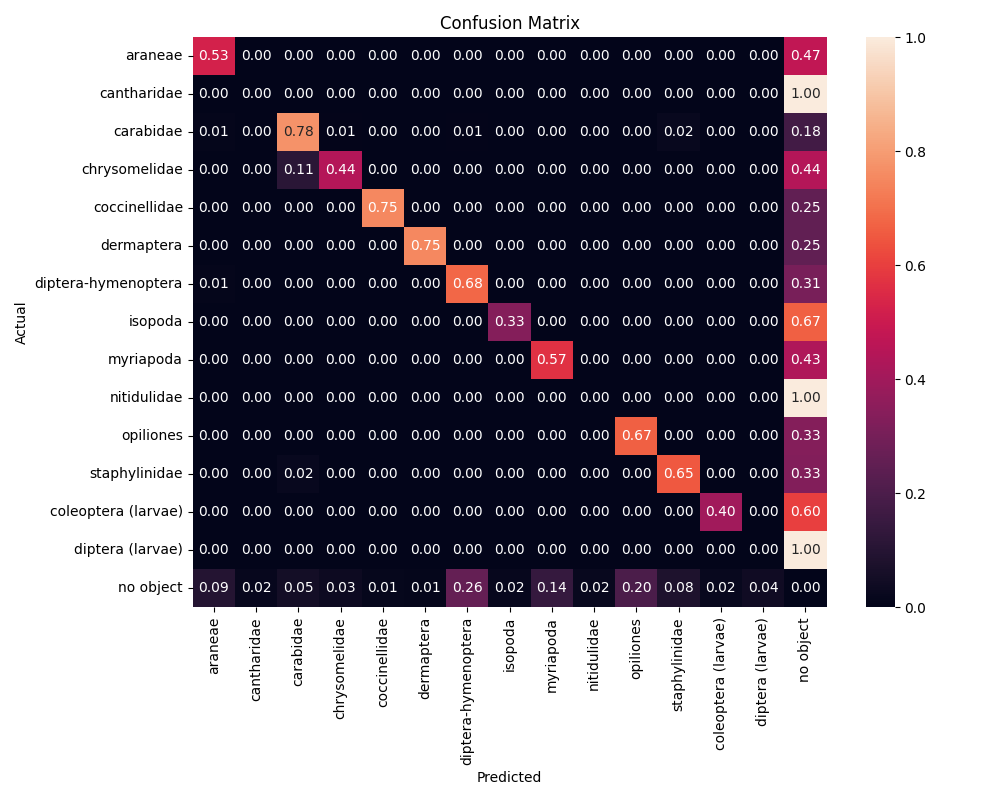
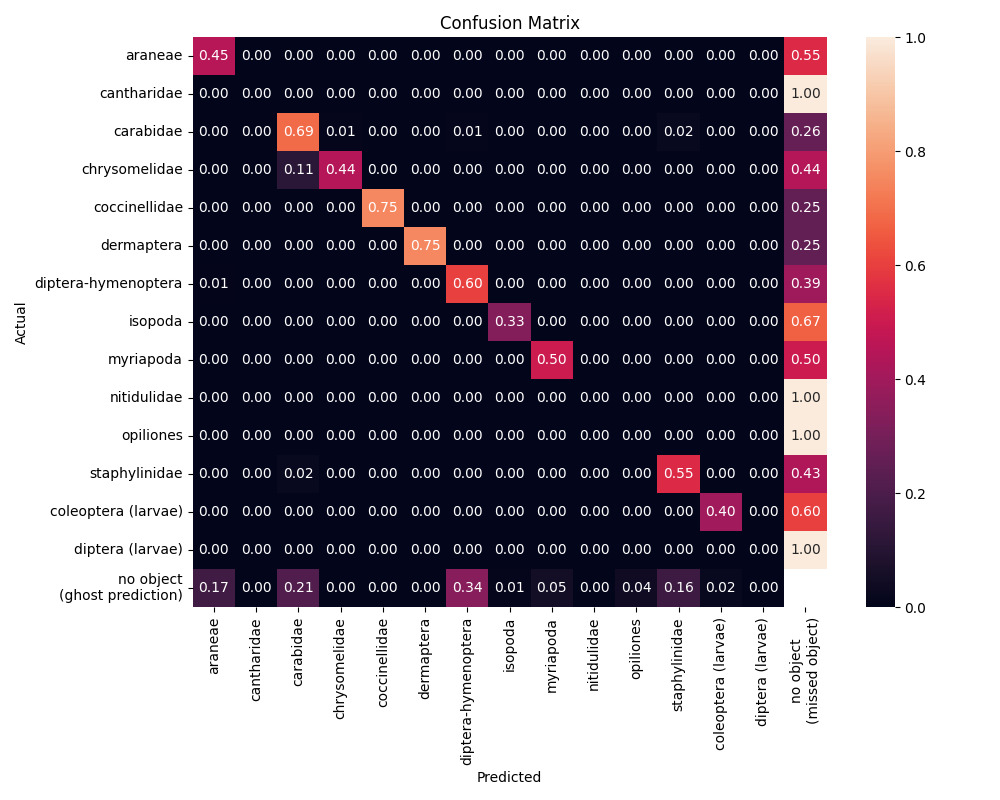
confusion matrix. True negatives removed from consideration, but still look at ghost predictions and missed objects

diff --git a/scripts/confusion_matrix.py b/scripts/confusion_matrix.py
@@ -31,91 +31,78 @@ def iou(box1, box2):
     # Compute IoU
     return inter_area / union_area if union_area > 0 else 0.0
 
-def match_detections(ground_truth_dict: dict, pred_dict: dict, coco_json: dict, images_dir: str):
+def match_detections(ground_truth_dict: dict, pred_dict: dict, iou_thresh = 0.5, conf_thresh = 0.5):
     print("Generating true and predicted bounding boxes and classes...")
     ground_truths = []
     predictions = []
-    scores = []
-    no_of_images = len(coco_json["images"])
+    conf_scores = []
 
-    for idx, img in enumerate(coco_json["images"], start=1):
-        if idx % 200 == 0 or idx == no_of_images:
-            print(f"-- Processed {idx} of {no_of_images} in the test set.")
-        pred_classes = pred_dict[img["id"]]["pred_classes"] 
-        pred_scores = pred_dict[img["id"]]["pred_scores"]
-        pred_bboxes = pred_dict[img["id"]]["pred_boxes"]
-        true_labels = ground_truth_dict[img["id"]]
 
+    for img_id, preds in pred_dict.items():
         matched = set()
-
-        # No objects in this image
-        if not true_labels: 
-            if not pred_classes:
-                # nothing was detected --> true negative
-                ground_truths.append(-1)
-                predictions.append(-1)
-                scores.append(0.0)
+        for pred_bbox, pred_class, pred_score in zip(preds["pred_boxes"], preds["pred_classes"], preds["pred_scores"]):
+            if pred_score < conf_thresh: 
+                # skip predictions below the confidence threshold
                 continue
-            else:
-                # something WAS detected --> false positive
-                for cls, score in zip(pred_classes, pred_scores):
-                    ground_truths.append(-1)
-                    predictions.append(cls)
-                    scores.append(score)
+            
+            if img_id not in ground_truth_dict: 
+                # no objects in this image --> false negative (handled after loop)
                 continue
-
-        # There ARE objects in this image
-        for true_bbox, true_cls in true_labels:
-            true_bbox = cc.coco_bbox_to_xyxy(bbox=true_bbox)
-            best_iou = 0
-            best_pred_idx = -1
-
-            # Match predicted bboxes with the true bbox based on the best iou (largest overlap)
-            for i, pred_bbox in enumerate(pred_bboxes):
+            # else, the image DOES have objects, so we consider each prediction for this image and compare 
+            # it to the ground truth:
+            best_iou, best_gt_idx = 0, -1
+            matched = set()
+            # go through the ground truth bboxes and see if they match this prediction (have sufficiently high IoU)
+            for i, (true_bbox, true_cls) in enumerate(ground_truth_dict[img_id]):
+                if i in matched: continue # skip the already matched gt boxes
+                true_bbox = cc.coco_bbox_to_xyxy(bbox=true_bbox)
                 this_iou = iou(pred_bbox, true_bbox)
-                if this_iou > best_iou and i not in matched and pred_scores[i] > 0.5:
+                if this_iou > best_iou and pred_score > conf_thresh:
                     best_iou = this_iou
-                    best_pred_idx = i
-            '''
-            for i, score in enumerate(pred_scores):
-                if score > best_score and i not in matched: # note that the predictions are all with a score above 0.5 (the threshold), so we don't have a check for that here
-                    best_score = score
-                    best_pred_idx = i'''
-           
-            if best_pred_idx == -1: 
-                # no predicted bbox was found for this ground truth bbox --> false negative
-                ground_truths.append(true_cls-1)
-                predictions.append(-1)
-                scores.append(0.0)
-            else: 
+                    best_gt_idx = i 
+            
+            if best_iou >= iou_thresh:
                 # we found a predicted bbox for this true bbox --> true positive
-                ground_truths.append(true_cls-1)
-                predictions.append(pred_classes[best_pred_idx]) # (but the class might still be wrong)
-                scores.append(pred_scores[best_pred_idx])
-                matched.add(best_pred_idx)                      # remember that we already assigned this prediction to a true label
-
-        # Predicted bboxes that have not been matched to a true bbox --> false positive
-        for j in range(len(pred_scores)):
-            if j not in matched:
+                ground_truths.append(ground_truth_dict[img_id][best_gt_idx][1]-1)
+                predictions.append(pred_class)
+                conf_scores.append(pred_score)
+                matched.add(best_gt_idx)
+                #del unmatched_gt[img_id][best_gt_idx] # remove, now that we've matched this box to a predicted box
+            else: 
+                # no ground truth bbox was matched with this prediction --> false positive
                 ground_truths.append(-1)
-                predictions.append(pred_classes[j])
-                scores.append(pred_scores[j])
+                predictions.append(pred_class)
+                conf_scores.append(pred_score)
+            
+        # any remaining have not been matched to a predicted bbox --> false negative
+        for i, (_, true_cls) in enumerate(ground_truth_dict[img_id]):
+            if i in matched: continue
+            ground_truths.append(true_cls-1)
+            predictions.append(-1)
+            conf_scores.append(0.0)
+
 
     print("Finished generating true and predicted bounding boxes and classes.")
-    return ground_truths, predictions, scores
+    return ground_truths, predictions, conf_scores
 
 def plot_confusion_matrix(y_true, y_pred, coco_categories, output_dir):
     print("Plotting confusion matrix...")
     num_classes = len(coco_categories)
+    class_ids = [cat["id"]-1 for cat in coco_categories] + [-1]
+    class_names = [cat["name"] for cat in coco_categories]
+    class_names_pred = class_names + ["no object\n(missed object)"]
+    class_names_true = class_names + ["no object\n(ghost prediction)"]
 
-    cm = confusion_matrix(y_true, y_pred, labels=list(range(num_classes)) + [-1])
+    cm = confusion_matrix(y_true, y_pred, labels=class_ids)
     cmn = cm.astype('float') / cm.sum(axis=1)[:, np.newaxis] # normalise
 
-    labels = [cat["name"] for cat in coco_categories] + ["no object"] # Convert to readable class names
+    # Create a mask: True for the last row & column (bottom-right cell)
+    mask = np.zeros_like(cm, dtype=bool)
+    mask[-1, -1] = True  # Hide bottom-right cell (No Object vs. No Object)
     
     # plot
     plt.figure(figsize=(10, 8))
-    sns.heatmap(cmn, annot=True, fmt=".2f", xticklabels=labels, yticklabels=labels)
+    sns.heatmap(cmn, annot=True, fmt=".2f", xticklabels=class_names_pred, yticklabels=class_names_true, mask=mask)
     plt.xlabel("Predicted")
     plt.ylabel("Actual")
     plt.title("Confusion Matrix")
@@ -123,62 +110,6 @@ def plot_confusion_matrix(y_true, y_pred, coco_categories, output_dir):
     plt.savefig(output_dir+"confusion_matrix.png")
     plt.close()
     print(f"Saved confusion matrix to {output_dir}confusion_matrix.png")
-
-
-def macro_average_pr(y_true, y_scores, num_classes):
-    all_precisions, all_recalls = [], []
-
-    for class_id in range(num_classes):
-        binary_y_true = np.array([1 if y == class_id else 0 for y in y_true])
-        binary_y_scores = np.array([score if pred == class_id else 0 for score, pred in zip(y_scores, y_pred)])
-
-
-        precision, recall, _ = precision_recall_curve(binary_y_true, binary_y_scores)
-        all_precisions.append(np.interp(np.linspace(0, 1, 100), recall[::-1], precision[::-1]))
-        all_recalls.append(np.linspace(0, 1, 100))
-
-    avg_precision = np.mean(all_precisions, axis=0)
-    avg_recall = np.linspace(0, 1, 100)
-
-    return avg_recall, avg_precision
-
-def weighted_average_pr(y_true, y_scores, num_classes):
-    all_precisions, all_recalls, class_weights = [], [], []
-
-    for class_id in range(num_classes):
-        binary_y_true = np.array([1 if y == class_id else 0 for y in y_true])
-        binary_y_scores = np.array([score if pred == class_id else 0 for score, pred in zip(y_scores, y_pred)])
-
-
-        if np.sum(binary_y_true) == 0:  # No ground truth for this class
-            continue  
-
-        precision, recall, _ = precision_recall_curve(binary_y_true, binary_y_scores)
-        weight = np.sum(binary_y_true) / len(y_true)  # Proportion of this class
-
-        all_precisions.append(np.interp(np.linspace(0, 1, 100), recall[::-1], precision[::-1]) * weight)
-        class_weights.append(weight)
-
-    weighted_precision = np.sum(all_precisions, axis=0) / np.sum(class_weights)
-    avg_recall = np.linspace(0, 1, 100)
-
-    return avg_recall, weighted_precision
-
-
-def plot_pr_curve(y_true, y_scores, output_dir):
-    num_classes = len(set(y_true))  # Get the number of classes
-    macro_recall, macro_precision = macro_average_pr(y_true, y_scores, num_classes)
-    weighted_recall, weighted_precision = weighted_average_pr(y_true, y_scores, num_classes)
-
-    plt.figure(figsize=(8, 6))
-    plt.plot(macro_recall, macro_precision, label="Macro-Averaged PR Curve", linestyle="--")
-    plt.plot(weighted_recall, weighted_precision, label="Weighted-Averaged PR Curve", linestyle="-")
-    plt.xlabel("Recall")
-    plt.ylabel("Precision")
-    plt.title("Overall Precision-Recall Curve")
-    plt.legend()
-    plt.savefig(output_dir+"pr_curve.png", bbox_inches="tight")
-    plt.show()
 
 def plot_pr_curve_per_class(y_true, y_pred, y_scores, coco_categories, output_dir):
     class_labels = [cat["name"] for cat in coco_categories] + ["no object"]
@@ -246,10 +177,12 @@ def plot_and_save_results(coco_json_path, image_dir, predictions_path, output_di
     pred_dict = cc.load_from_file(predictions_path)
     print("Fetching ground truths...")
     ground_truth_dict = cc.load_image_to_bbox_and_cat_pairs_from_annotations(coco_json=coco_json)
-    ground_truth_classes, predicted_classes, scores = match_detections(ground_truth_dict=ground_truth_dict, pred_dict=pred_dict, images_dir=image_dir, coco_json=coco_json)
-    
+    ground_truth_classes, predicted_classes, scores = match_detections(ground_truth_dict=ground_truth_dict, pred_dict=pred_dict, conf_thresh=0.5)
     plot_confusion_matrix(y_true=ground_truth_classes, y_pred=predicted_classes, coco_categories=coco_json["categories"], output_dir=output_dir)
-    plot_pr_curve(y_true=ground_truth_classes, y_scores=scores, output_dir=output_dir)
+    #plot_pr_curve(y_true=ground_truth_classes, y_scores=scores, output_dir=output_dir)
+    
+    ground_truth_dict = cc.load_image_to_bbox_and_cat_pairs_from_annotations(coco_json=coco_json)
+    ground_truth_classes, predicted_classes, scores = match_detections(ground_truth_dict=ground_truth_dict, pred_dict=pred_dict, conf_thresh=0.0)
     plot_pr_curve_per_class(y_true=ground_truth_classes, y_pred=predicted_classes, y_scores=scores, coco_categories=coco_json["categories"], output_dir=output_dir)
 
 def main():

diff --git a/scripts/predict_test_set.py b/scripts/predict_test_set.py
@@ -18,7 +18,7 @@ def main():
     CONFIG_PATH = args.config_file
 
     print(f"Loading in model {CONFIG_PATH} with weights from {MODEL_WEIGHTS}...")
-    predictor = model.load_model(CONFIG_PATH, MODEL_WEIGHTS, score_thresh=0.0)
+    predictor = model.load_model(CONFIG_PATH, MODEL_WEIGHTS)
     coco_json = cc.load_from_file(COCO_JSON)
 
     print(f"Generating predictions for images from {COCO_JSON}...")
